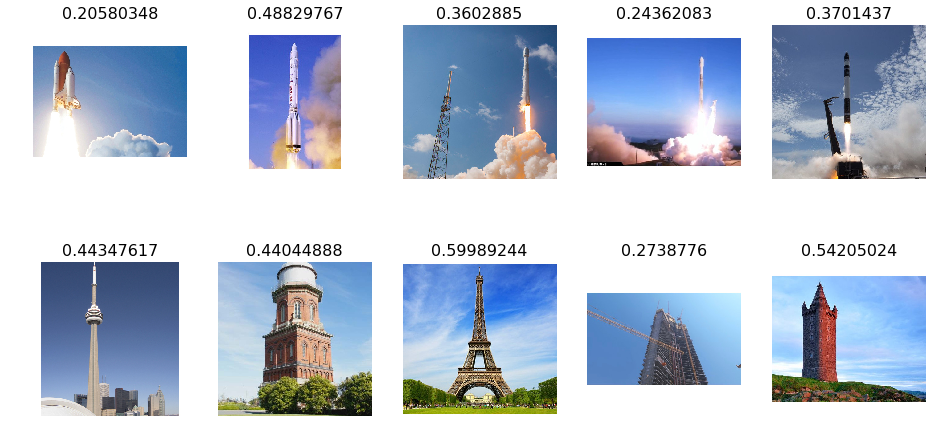
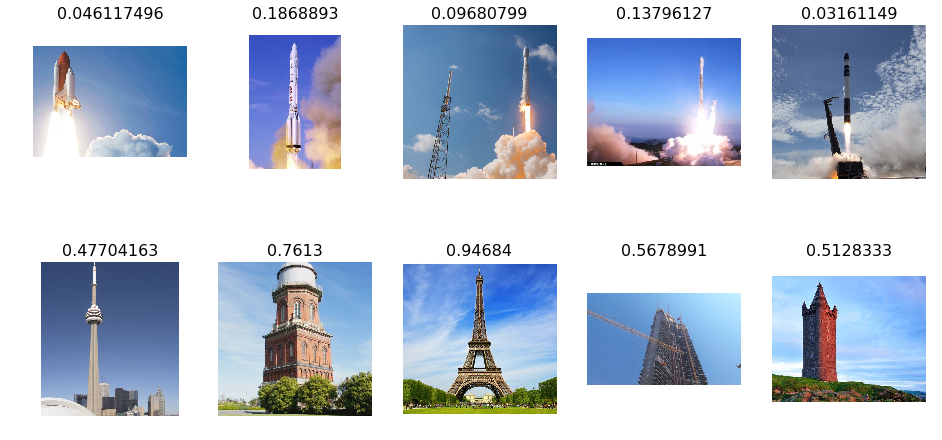
Attempt two added

diff --git a/rocket-or-tower/index.html b/rocket-or-tower/index.html
@@ -13,25 +13,74 @@
 
     <h1>Rocket or Tower</h1>
 
-    <p>Recently I started working on <a href="https://fast.ai">fast.ai</a> and I wanted to post my first attempt at creating a network.
+    <h2>Attempt One</h2>
 
-    <p>My train set contains 10 images of rockets and 10 images of towers
+    <p>Recently I started working on <a href="https://fast.ai">fast.ai</a>, this is my attempt at creating a network.
+    <p>My training set contains 10 rockets and 10 towers
 
     <img src="tower.png" />
 
-    <p>Using the the 3 line program from the the fast.ai library to use the precompiled models of <a href="https://github.com/KaimingHe/deep-residual-networks">resnet</a>
+    <p>Using the the 3 line program from the fast.ai library for the precompiled model <a href="https://github.com/KaimingHe/deep-residual-networks">resnet</a>
 
     <pre><code>
   arch=resnet34
   data = ImageClassifierData.from_paths(PATH, tfms=tfms_from_model(arch, sz))
   learn = ConvLearner.pretrained(arch, data, precompute=True)
   learn.fit(0.01, 5)
-  </pre></code>
+  </code></pre>
 
     <p>0 is more rocket-like, 1 is more building-like</p>
 
+    <p>With having only 10 examples of each. It is amazing how well it did. Only misclassifing the CN tower just barely to being a rocket
+
     <img src="result.png" width="722px" />
 
+    <h2>Attempt Two</h2>
+
+    <p>I added a lot more photos to about 300 each for training and 15 for the validation
+
+    <p>This time adding data augmentation, variable learning rate and unfreezing the model
+
+    <h3>Data Augmentation</h3>
+
+    <p>Modify the image slightly to known effects of a camera. This is transformations that shift, zoom and flip the images. These are fed into the learning like any other image
+
+    <pre><code>tfms = tfms_from_model(resnet34, sz, aug_tfms=transforms_side_on, max_zoom=1.1)</pre></code>
+
+    <img src="aug.png" />
+
+
+    <h3>Stochastic Gradient Descent with Restarts</h3>
+
+    <p>When a network is learning a function. It needs to start off high and reduce to gain more accuracy. This is included but also is restarted every epoch. This helps generalize the network, by trying avoiding narrow minimums. Creating a learning rate like this...
+
+    <img src="learning.png" />
+
+    <p>This is improved a little bit more by slowing down the learning rate on the later epochs.
+
+    <img src="learning2.png" />
+
+    <h3>Training the precomputed Model</h3>
+
+    <p>Before training was done on the last few layers. This opens the begining layers. Also much lower learning rates are used in decreasing order to the earlier layers
+
+    <pre><code>  learn.unfreeze()
+  lr=np.array([1e-4,1e-3,1e-2])
+  learn.fit(lr, 3, cycle_len=1, cycle_mult=2)</code></pre>
+
+    <h3>Result</h3>
+
+    <p>96.6% accuracy. With one error in classification
+
+    <pre><code>  plot_confusion_matrix(cm, data.classes)</code></pre>
+
+    <img src="confusion.png" />
+
+    <p>Below it the images it was most uncertain of including the incorrect labeling of the rocket on the bottom left
+
+    <img src="result2.png" width="722px"/>
+
+    <p>Thank you</p>
 
 
 </article>
